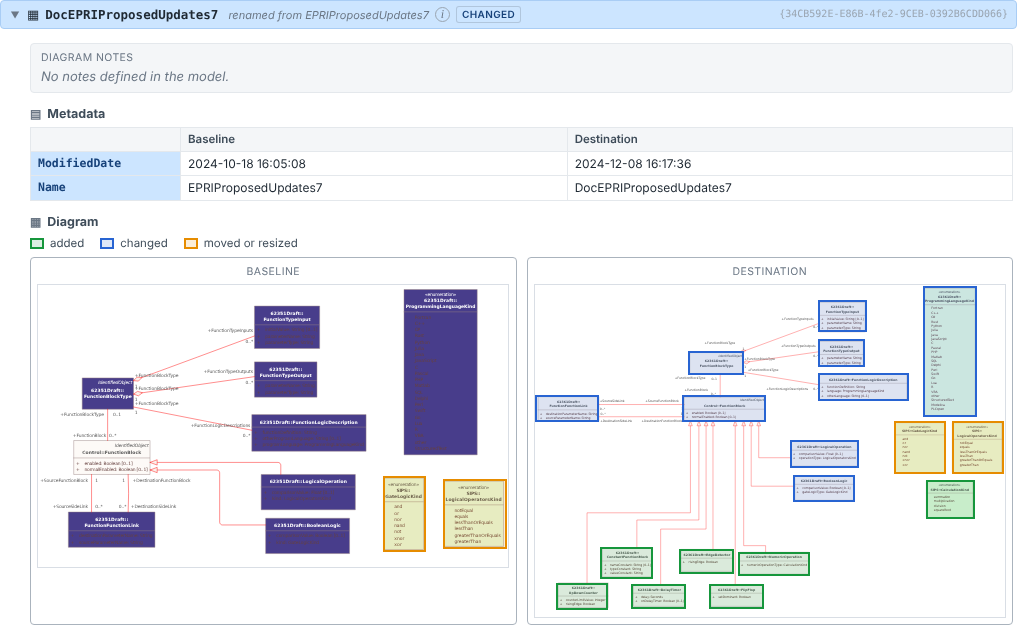
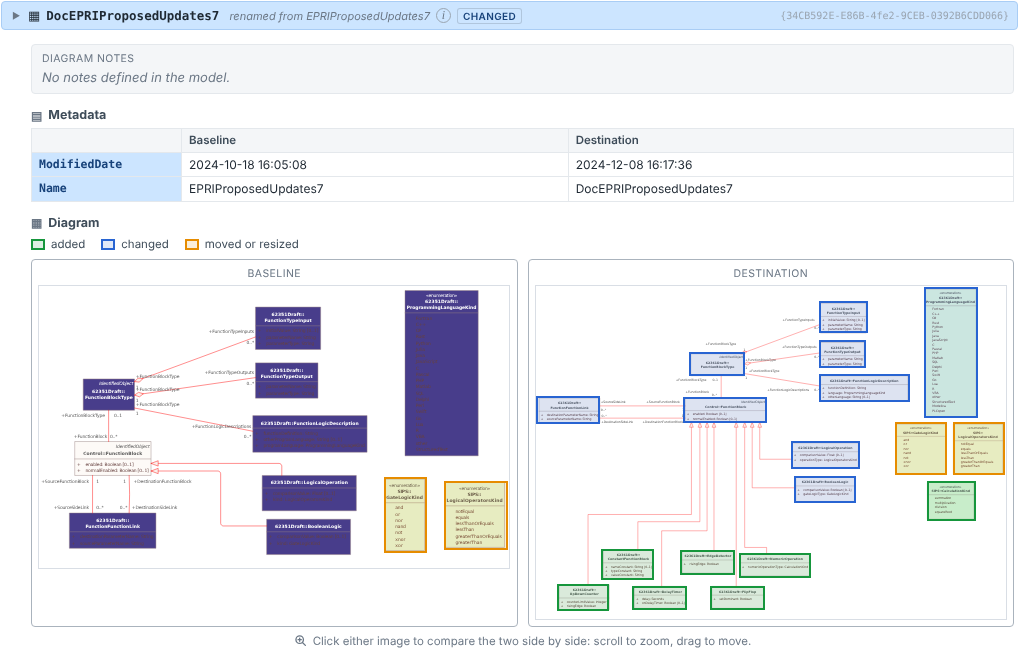
#225 Say under a diagram's images how to open the enlarged view
One grey line, centred under the images: "Click either image to compare
the two side by side: scroll to zoom, drag to move." (or "Click the image
to enlarge it: ..." for a diagram with one image). Not where there is no
image, and not printed. The README's two diagram screenshots show it.

Claude-Session: https://claude.ai/code/session_011tgNrNWWxYpt25Uj32Kb6G

diff --git a/src/main/resources/report/report.css b/src/main/resources/report/report.css
@@ -407,6 +407,10 @@ body.no-hl .hl, body.no-hl .hl-legend { display: none !important; }
    breaks inside itself rather than overflowing. */
 .end-sig { display: inline-block; max-width: 100%; }
 .sigline > div { overflow-wrap: anywhere; }
+/* #225: under a diagram's images, how to open the enlarged view */
+.diag-hint { display: flex; justify-content: center; align-items: center; gap: 6px; margin: 6px 0 2px; font-size: var(--fs-s); color: var(--muted); }
+.diag-hint svg { width: 13px; height: 13px; flex: none; }
+@media print { .diag-hint { display: none; } }
 .hl-legend { display: flex; flex-wrap: wrap; gap: 4px 16px; font-size: var(--fs-s); color: var(--ink-2); margin: 0 0 6px; }
 .hl-key { display: inline-flex; align-items: center; gap: 6px; }
 .hl-sw { display: inline-block; width: 14px; height: 11px; border-width: 2px; border-style: solid; box-sizing: border-box; }

diff --git a/src/layout-test/java/org/cimug/compare/report/ReportLayoutTest.java b/src/layout-test/java/org/cimug/compare/report/ReportLayoutTest.java
@@ -166,6 +166,9 @@ public class ReportLayoutTest {
 					+ " const img = r.parentElement.querySelector('.diag.single img').getBoundingClientRect();"
 					+ " return Math.abs((panel.left + panel.width / 2) - (img.left + img.width / 2)); }");
 			assertTrue("the unchanged diagram's image is centred at " + width + " px (off by " + offset + " px)", offset.doubleValue() <= 1.5);
+			String hint = (String) page.evaluate("() => [...document.querySelectorAll('.node.dia > .row')].find(r => r.dataset.name === 'DocUnchanged')"
+					+ ".parentElement.querySelector('.diag-hint').textContent.trim()");
+			assertEquals("the single image's hint", "Click the image to enlarge it: scroll to zoom, drag to move.", hint);
 			page.close();
 		}
 	}
@@ -205,6 +208,9 @@ public class ReportLayoutTest {
 		for (int width : WIDTHS) {
 			Page page = enlarge(normal, width, "CoreOverview", "destination", null);
 			String where = "CoreOverview at " + width + " px";
+			assertEquals(where + ": every diagram with two images says how to open them", "",
+					page.evaluate("() => [...document.querySelectorAll('.diag')].map(d => d.nextElementSibling)"
+							+ ".filter(h => !h || !h.matches('.diag-hint') || h.textContent.trim() !== 'Click either image to compare the two side by side: scroll to zoom, drag to move.').length ? 'missing' : ''"));
 			assertEquals(where + ": labelled panes", "Baseline,Destination",
 					page.evaluate("() => [...document.querySelectorAll('#lightbox .lb-lbl')].map(l => l.textContent).join(',')"));
 			sameView(where + " at Fit", panes(page), 0, 0);

diff --git a/src/test/java/org/cimug/compare/report/ReportRendererTest.java b/src/test/java/org/cimug/compare/report/ReportRendererTest.java
@@ -547,5 +547,10 @@ public class ReportRendererTest {
 		assertTrue(page.contains(".lb-panes {"));
 		assertTrue(page.contains(".lb-key {"));
 		assertFalse(page.contains("data-shift="));
+		// how to open the enlarged view goes under a diagram's images, and not where there are
+		// none (this fixture has no image files; ReportLayoutTest checks it with images); not printed
+		assertTrue(page.contains("<div class=\"diag\""));
+		assertFalse(page.contains("class=\"diag-hint\""));
+		assertTrue(page.contains("@media print { .diag-hint { display: none; } }"));
 	}
 }
